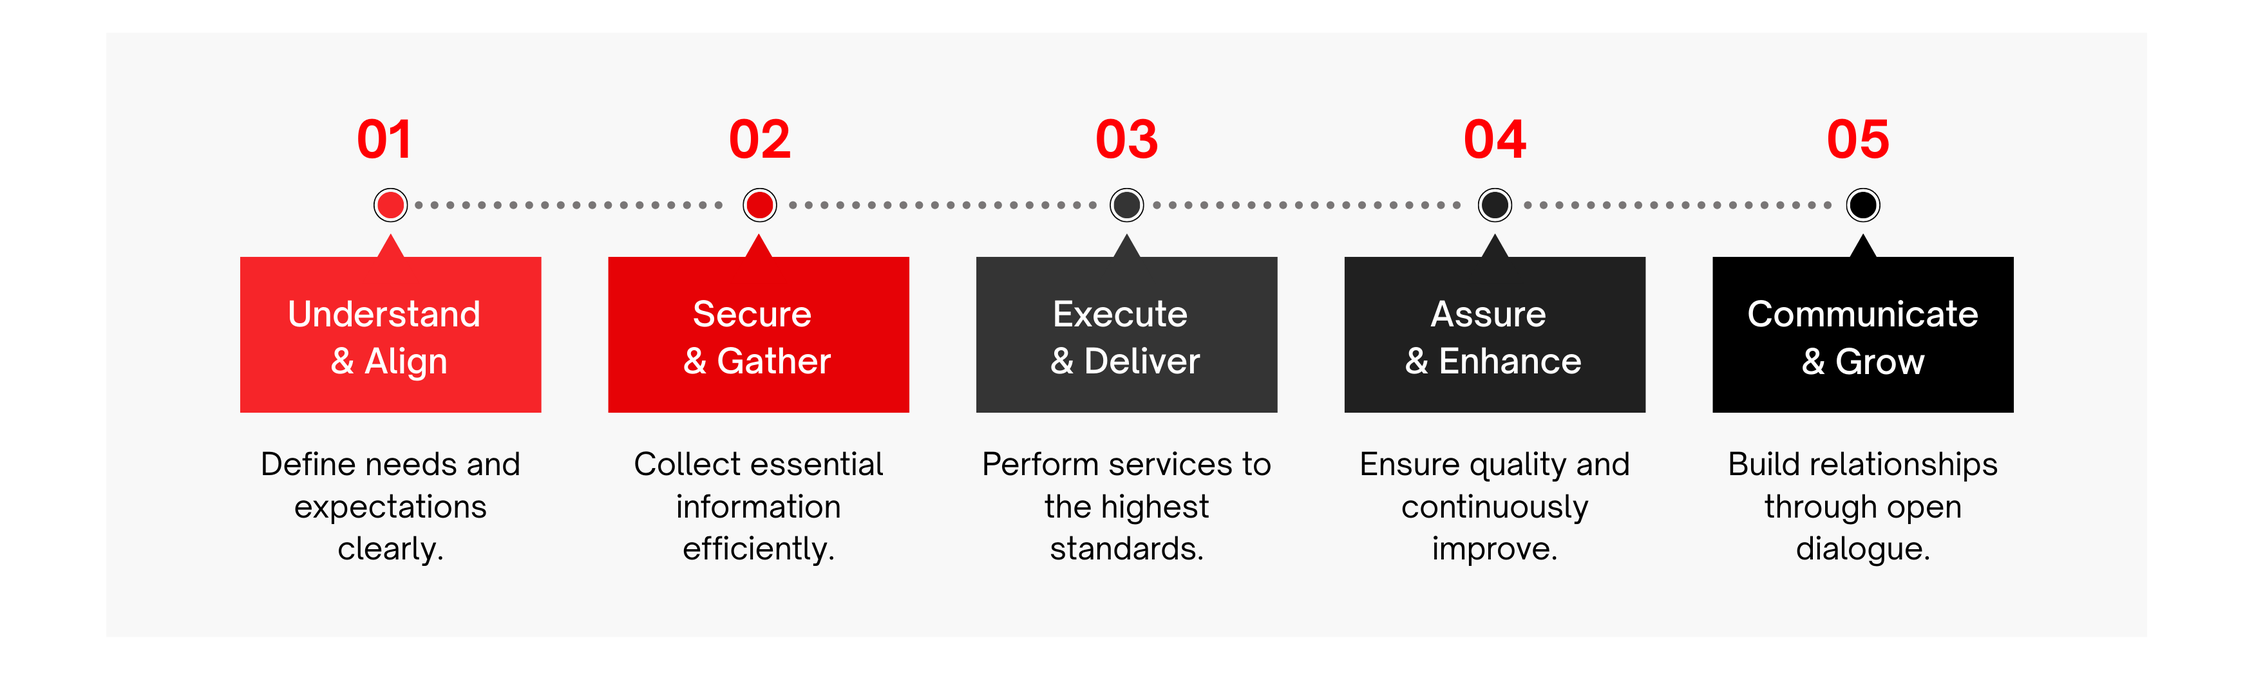
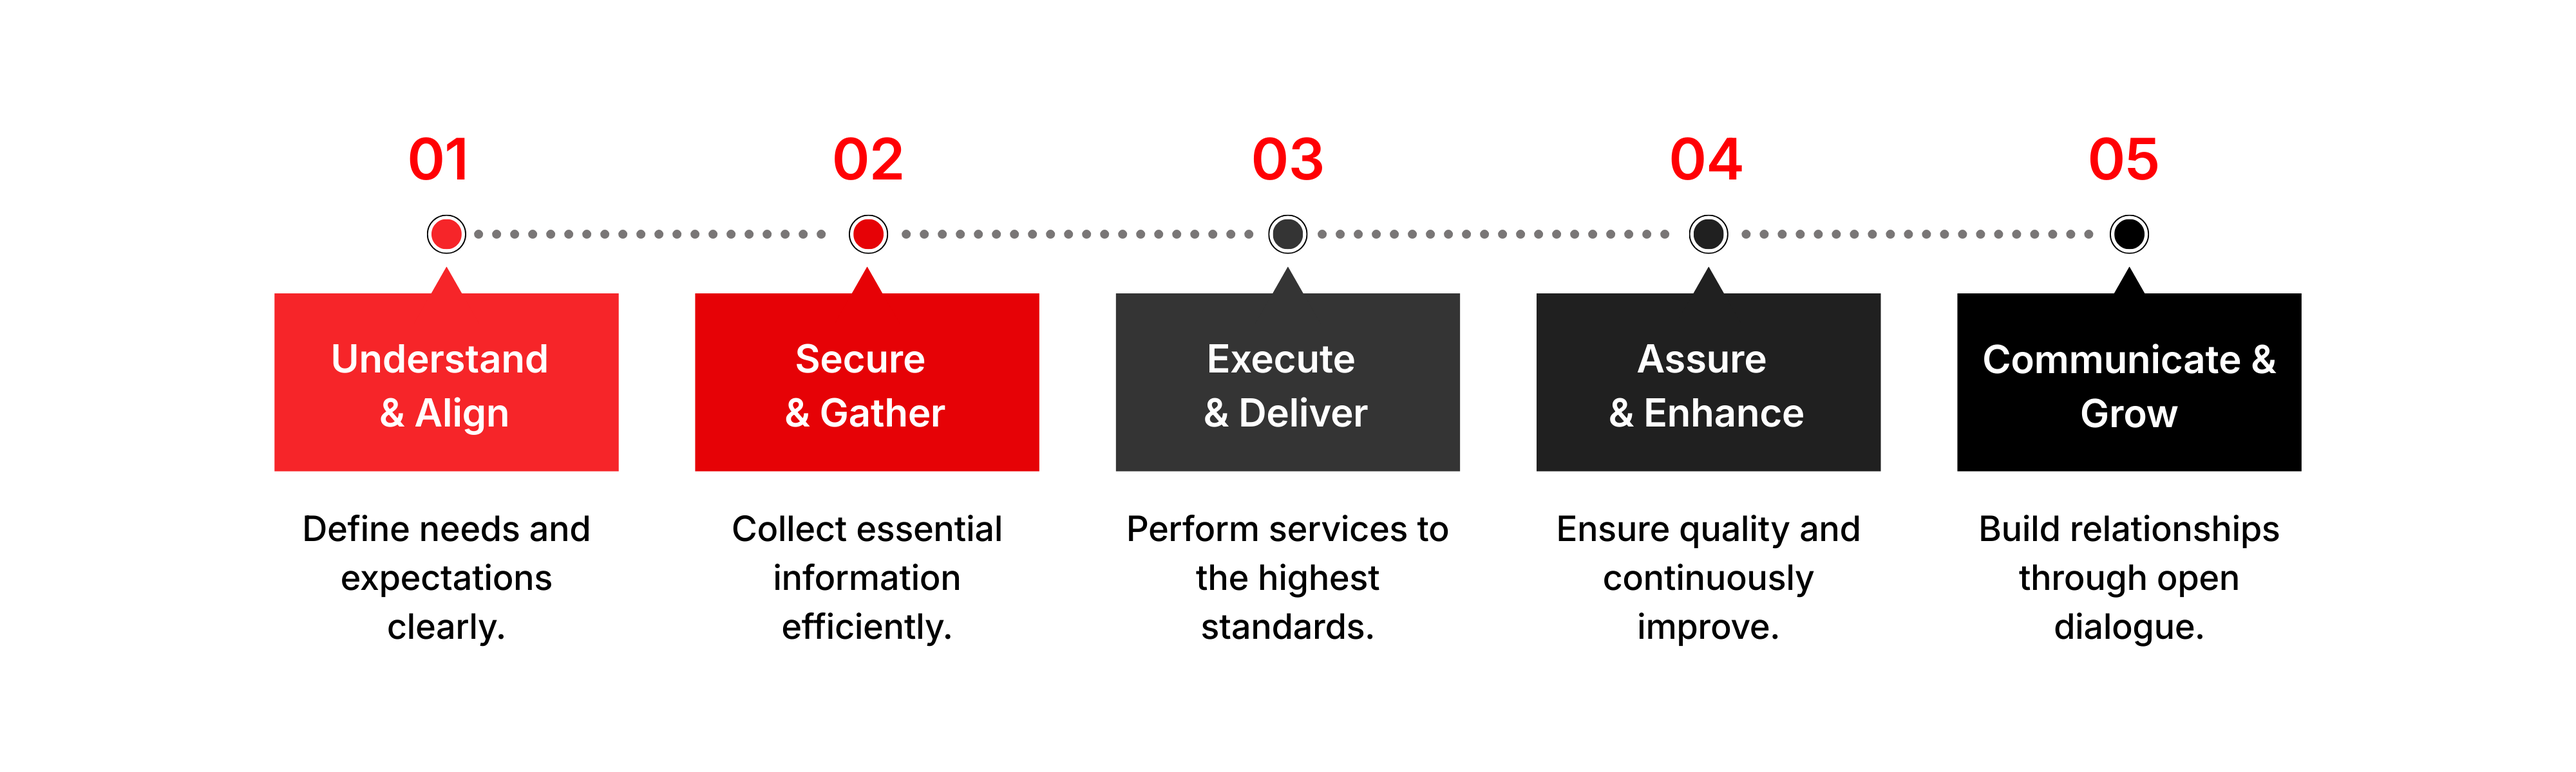
new updates

diff --git a/src/components/HomeServices.jsx b/src/components/HomeServices.jsx
@@ -7,64 +7,64 @@ const services = [
   {
     title: "Audit & Assurance",
     description:
-      "Reliable audit and assurance services to ensure financial transparency, compliance, and credibility.",
+      "Our audit services Mindanao businesses rely on are designed to enhance transparency, strengthen financial reporting, and ensure regulatory compliance.",
   },
   {
     title: "Accounting & Financial Reporting",
     description:
-      "Comprehensive accounting solutions to maintain accurate records and support data-driven decisions.",
+      "We maintain structured financial records and provide clear reporting to support informed decision making and operational efficiency.",
   },
   {
     title: "Taxation & Compliance",
     description:
-      "Expert guidance to help businesses manage tax obligations efficiently while maximizing savings.",
+      "Our tax filing services depend on help ensure timely submissions, accurate calculations, and full compliance with national regulations.",
   },
   {
-    title: "Bookkeeping & Payroll Services",
+    title: "Bookkeeping",
     description:
-      "Reliable bookkeeping and payroll solutions to ensure seamless financial management.",
+      "We provide professional bookkeeping services that maintain accurate records, monitor cash flow, and support day to day financial management.",
   },
   {
-    title: "Business & Financial Consultancy",
+   title: "Payroll",
     description:
-      "Strategic consultancy services to help businesses navigate financial challenges and grow sustainably.",
+      "Our payroll services ensure accurate salary processing, statutory contributions, and government compliance requirements.",
+  },
+  {
+    title: "Business & Financial Advisory",
+    description:
+      "Our business advisory services guide organizations through financial planning, risk management, and growth strategy development.",
   },
   {
     title: "Regulatory Compliance & Corporate Services",
     description:
-      "Professional support to ensure compliance with SEC, BIR, and other regulatory requirements.",
+      "We assist businesses with corporate documentation, regulatory filings, and compliance requirements to ensure smooth operations.",
   },
 ];
 
 export default function HomeServices() {
   return (
-    <section className="bg-[#24262d] py-24">
-      <div className="max-w-7xl mx-auto px-6">
+    <section className="bg-[#24262d] py-8">
+      <div className="flex flex-wrap justify-center mx-[40px]">
 
         {/* Section Header */}
-        <div className="text-center mb-16">
-          <h4 className="text-white uppercase text-lg tracking-wide mb-4">
-            Our
-          </h4>
-
+        <div className="text-center">
           <h2 className="text-white text-5xl font-bold uppercase">
-            Services
+            Our Services
           </h2>
 
-          <p className="text-gray-300 mt-6 max-w-3xl mx-auto">
-            At <span className="text-[#f90908] font-semibold">Balagot & Emperado CPA’s Co.</span>, 
-            we provide professional accounting, audit, tax, and advisory services 
-            tailored to your business needs.
+          <p className="text-gray-300 mt-6 max-w-3xl mx-auto mb-10">
+            We provide comprehensive accounting services throughout Mindanao, serving businesses in Kidapawan City, Midsayap, Koronadal City, Bukidnon, Davao, and Samal with solutions designed for sustainable growth and operational stability.
           </p>
         </div>
 
         {/* GRID */}
-        <div className="grid grid-cols-1 md:grid-cols-2 xl:grid-cols-2 gap-6">
+        <div className="grid grid-cols-1 xl:grid-cols-2 gap-6 mx-[40px] w-full">
 
           {services.map((service, index) => (
             <div
               key={index}
-              className="bg-white p-10 rounded-xl shadow-lg hover:shadow-2xl transition duration-300"
+              className={`bg-white p-10 rounded-xl shadow-lg hover:shadow-2xl transition duration-300
+              ${index === services.length - 1 ? "xl:col-span-2 xl:max-w-[600px] xl:mx-auto" : ""}`}
             >
               <h3 className="text-2xl font-bold text-[#1f2a44] mb-5">
                 {service.title}

diff --git a/src/components/About.jsx b/src/components/About.jsx
@@ -7,7 +7,7 @@ const About = () => {
   return (
     <div
       id="merox-about-area"
-      className="merox-about-area py-[60px] md:py-[60px]"
+      className="merox-about-area py-[50px] md:py-[60px]"
     >
       <div className="container">
         <div className="flex flex-wrap mx-[-12px] items-start">
@@ -20,11 +20,8 @@ const About = () => {
 
           {/* Content */}
           <div className="xl:ml-[8.33333333%] xl:w-6/12 lg:w-6/12 md:w-full sm:w-full xsm:w-full px-[12px] wow fadeInRight">
-            <div className="section-title mb-6 md:mb-8 md:mt-10 sm:mt-10">
-              <h4 className="uppercase font-medium text-[18px] ">
-                overview
-              </h4>
-              <h3 className="text-[40px] md:text-[50px] font-bold leading-tight uppercase">
+            <div className="section-title mb-6 md:mb-6 md:mt-6 sm:mt-6">
+              <h3 className="text-[40px] md:text-[40px] font-bold leading-tight uppercase">
                 about{" "}
                 <span className="text-[#f90908]">Balagot &amp; Emperado CPA’s Co</span>
               </h3>
@@ -36,31 +33,15 @@ const About = () => {
               </p>
 
               <p className="mb-3 leading-7">
-                At Balagot &amp; Emperado CPA’s Co., we believe that our people are the
-                driving force behind our success. We cultivate a culture of
-                professionalism, collaboration, and continuous learning, where every
-                team member is empowered to grow, innovate, and make a meaningful
-                impact.
+                At Balagot &amp; Emperado CPA’s Co., we believe strong financial foundations create strong businesses. As an established CPA firm Mindanao organizations rely on, we help entrepreneurs, corporations, and institutions manage financial responsibilities with professionalism and integrity.
               </p>
 
               <p className="mb-3 leading-7">
-                Our firm fosters an environment of mentorship and expertise, where
-                knowledge is shared, achievements are celebrated, and growth
-                opportunities are abundant. Whether through industry-leading training
-                programs, leadership development, or hands-on experience, we ensure
-                that our professionals are equipped to thrive in an evolving financial
-                landscape.
-              </p>
-
-              <p className="mb-3 leading-7">
-                Beyond work, we value work-life balance and camaraderie, encouraging a
-                supportive community that uplifts and inspires. At Balagot &amp;
-                Emperado CPA’s Co., we don’t just build careers—we build futures.
+                Our Certified Public Accountants Philippines team brings industry knowledge, regulatory expertise, and hands on experience to every engagement. We focus on delivering practical solutions that strengthen internal controls, improve reporting accuracy, and support strategic decision making.
               </p>
 
               <p className="mb-0 leading-7">
-                Be part of a team that values excellence, integrity, and innovation.
-                Your journey to professional success starts here.
+                We do not just prepare reports. We build long term financial systems that help businesses operate responsibly and grow sustainably.
               </p>
             </div>
           </div>

diff --git a/src/components/Hero.jsx b/src/components/Hero.jsx
@@ -10,8 +10,16 @@ const HeroDataa = {
     {
       title: "always top rated",
       title2: 'Empowering Businesses.',
-      brief:
-        "BAECPAs Co provides reliable accounting services Mindanao businesses trust for financial clarity and long term stability. We operate physical offices in Kidapawan City, Midsayap, Koronadal City, Bukidnon, Davao, and Samal, providing structured bookkeeping, tax compliance, payroll processing, and financial advisory solutions that support long term business growth and financial stability." <br> "Our team combines technical expertise with practical business insight to deliver solutions that are accurate, compliant, and aligned with your goals.",
+       brief: (
+        <>
+          <p className="text-white">
+            At Balagot & Emperado CPA’s Co., we are more than just a financial services firm—we are your trusted partners in achieving sustainable growth beyond the financials.
+          </p>
+          <p className="text-white mt-4">
+            With a steadfast commitment to accuracy, integrity, and strategic insight, we empower businesses and individuals to navigate the complexities of financial management with confidence and clarity.
+          </p>
+        </>
+      ),     
       btntext: "get started",
       btnlink: "/contact",
       btntext2: "learn more",

diff --git a/src/components/Careers.jsx b/src/components/Careers.jsx
@@ -5,14 +5,14 @@ const Careers = () => {
   return (
     <div
       id="merox-careers-area "
-      className="bg-[#fffff] relative z-[1] py-1 md:py-2 "
+      className="bg-[#fffff] relative z-[1] py-1 mt-0 md:py-1 "
     >
       <div className="container">
-        <p className="font-bold text-[20px] text-red-500 text-center relative pl-[30px] mb-6 ">
+        <p className="font-bold text-[20px] text-red-500 text-center relative pl-[30px] mb-2 ">
           Build Your Future with Balagot & Emperado CPA’s Co.
         </p>
 
-        <p className="text-left text-[18px] text-center leading-7 mb-4">
+        <p className="text-left text-[18px] text-center leading-6 mb-2">
           At <span className="text-red-500">Balagot & Emperado CPA’s Co.</span>,
           we are more than just an accounting firm—we are a community of
           professionals dedicated to excellence, growth, and innovation. We

diff --git a/src/components/Industries.jsx b/src/components/Industries.jsx
@@ -80,7 +80,7 @@ const Industries = () => {
   return (
     <div
       id="merox-services-area"
-      className="merox-services-area py-10 bg-left z-[1] md:pb-20 sm:pb-20"
+      className="merox-services-area py-2 bg-left z-[1] md:pb-4 sm:pb-2"
     >
       <div className="container text-center mt-8 mb-8">
         <h1 className="text-[50px] font-bold leading-[49px] uppercase">
@@ -140,7 +140,7 @@ const Industries = () => {
           </div>
         </div>
 
-        <p className="text-left mt-10 text-[18px]">
+        <p className="text-left text-[18px] ">
           At <span className="text-red-500">Balagot & Emperado CPA’s Co.</span>, we go beyond numbers—we build partnerships that drive success.
           No matter your industry, we are here to help you navigate financial complexities and achieve long-term financial stability.
         </p>
